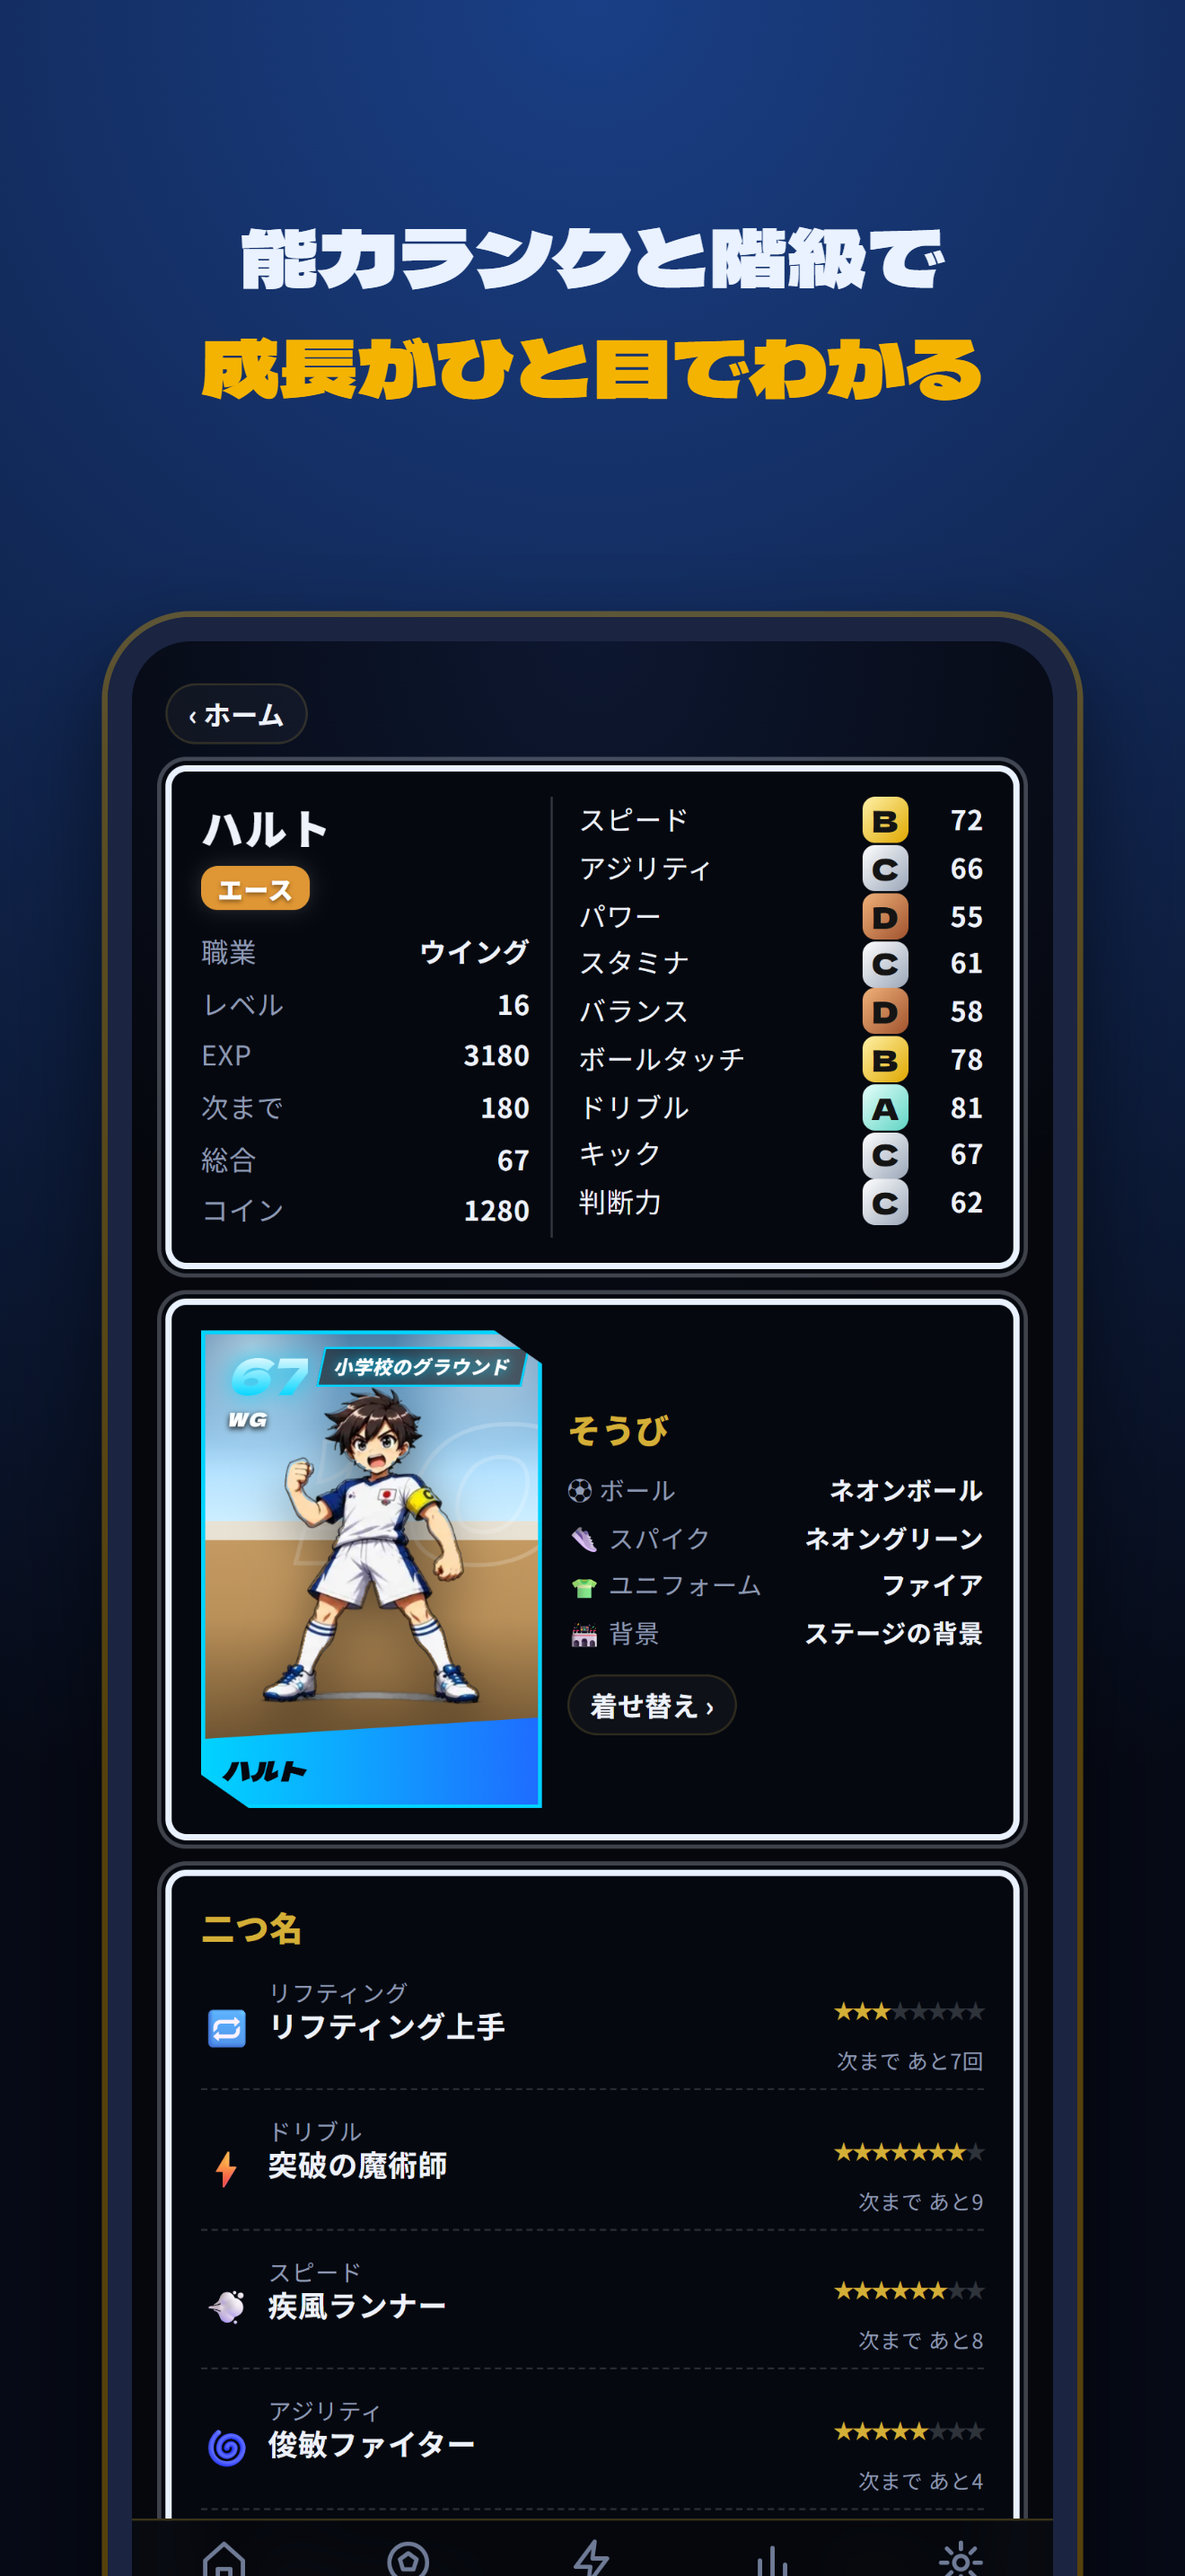
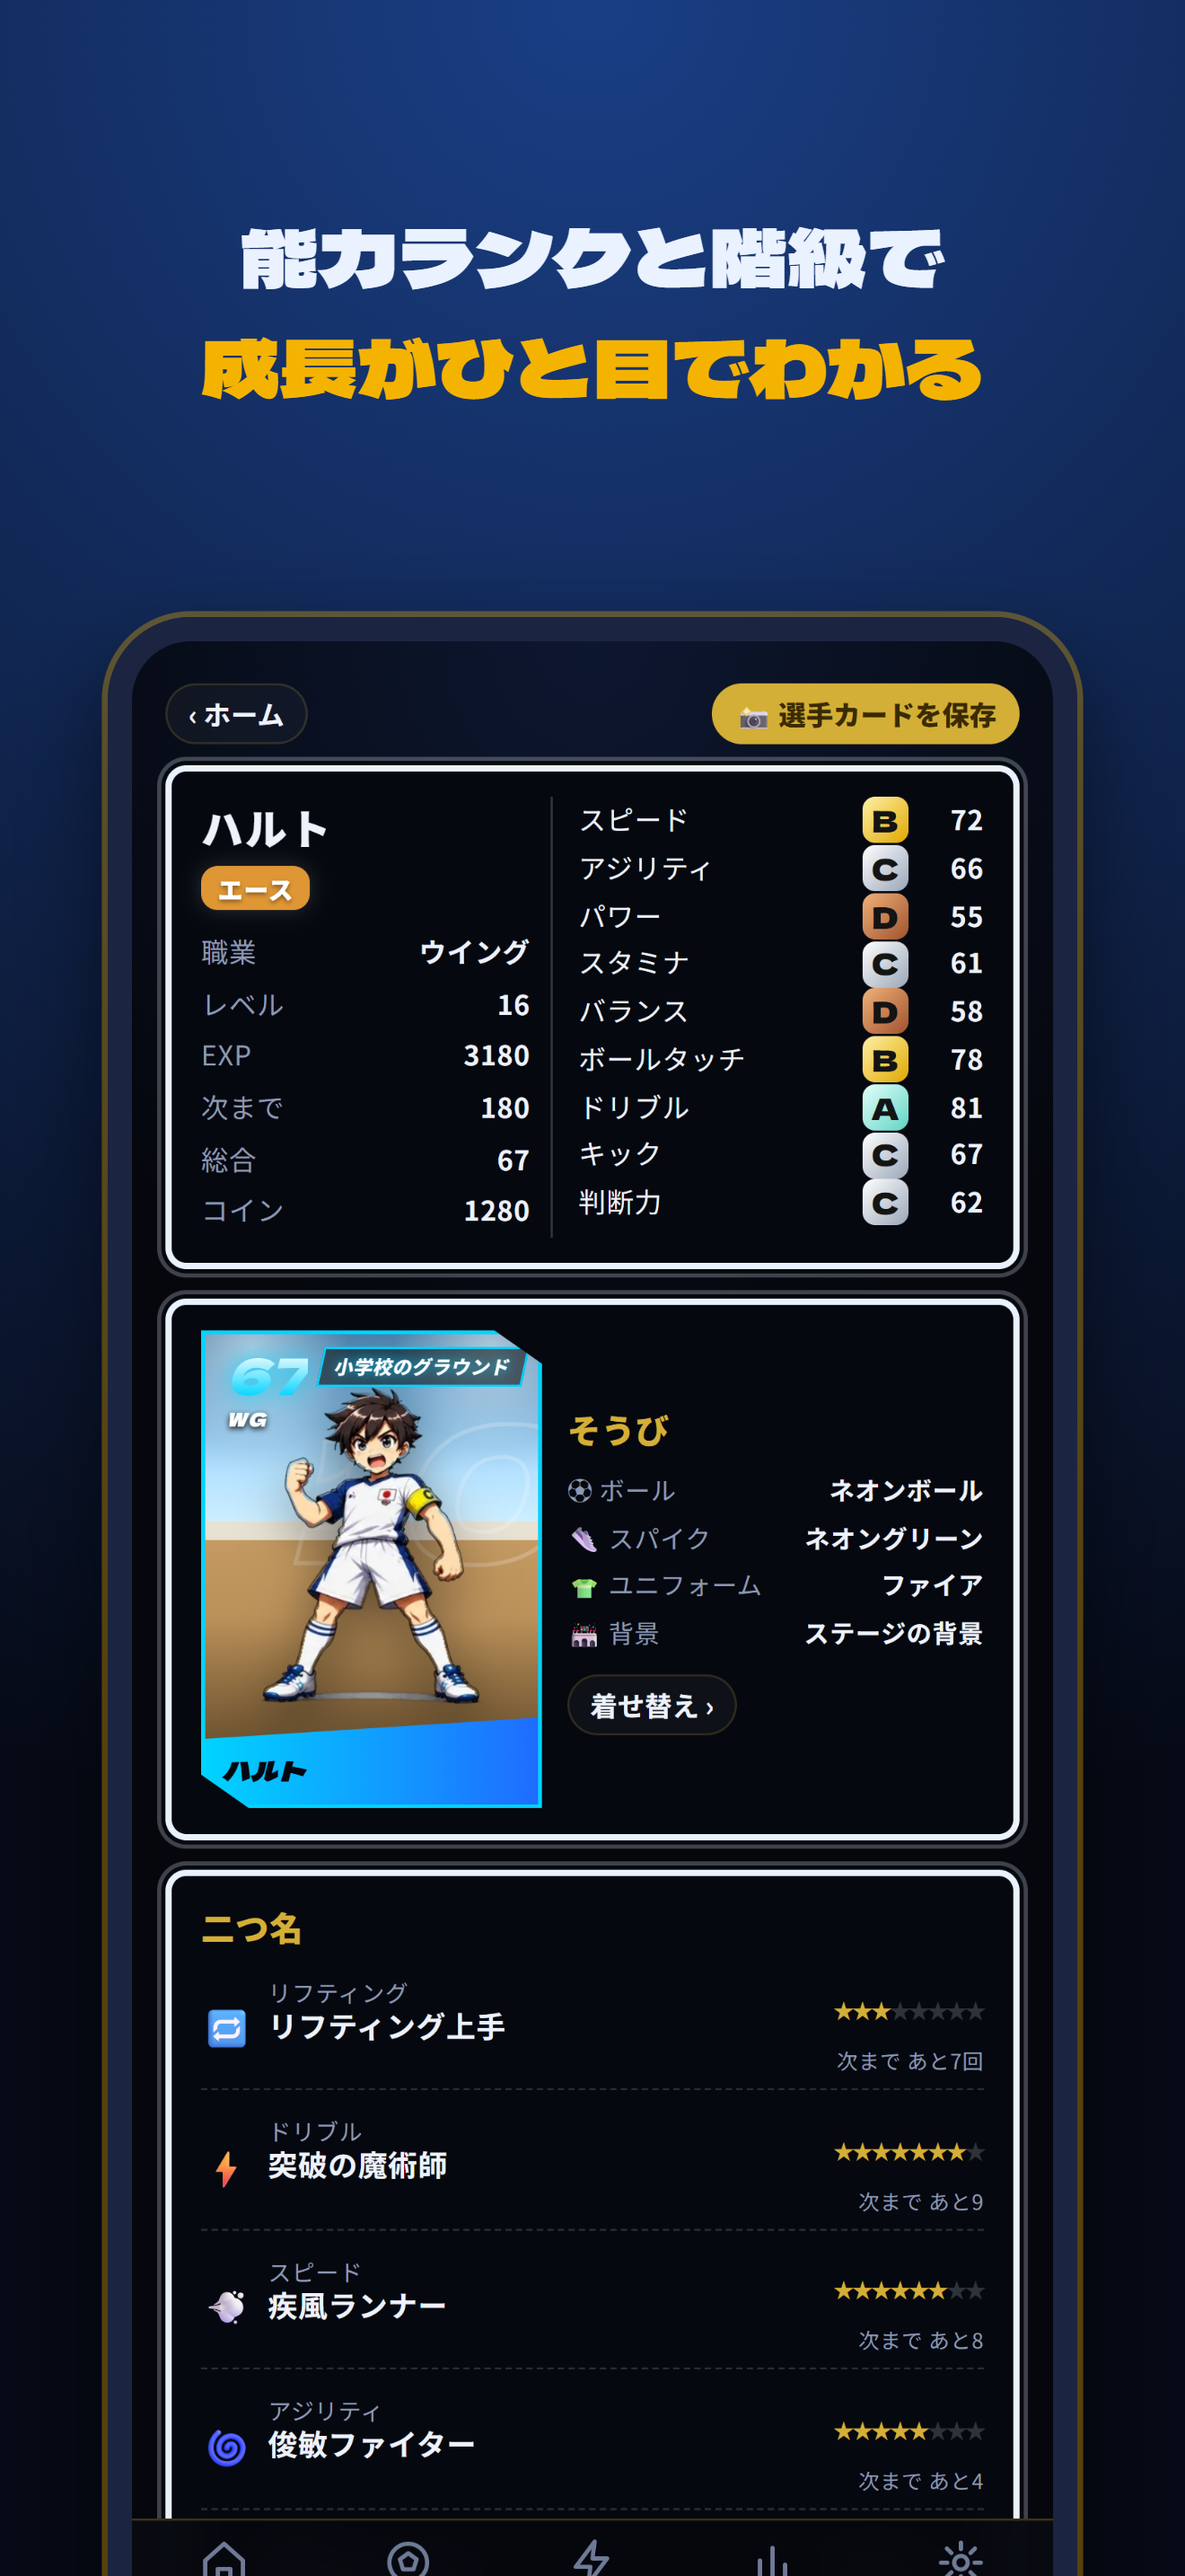
v0.16.0：はじめての練習をわかりやすく・ボーナス
- まだ練習していない人のホームに「はじめての練習をしよう！」（かんたんな練習3つ）
- 最初の1回はボーナス（+100 EXP・🪙50・🎁宝箱）で、すぐにレベルアップ・宝箱・称号を体験できる
- CLAUDE.md に新しい仕組み（演出・タイマー・兄弟・カード画像・ライバル）を追記、ストア画像を撮り直し

Changed region(s): [[0.5902, 0.2483, 0.8697, 0.3103]]

diff --git a/app.js b/app.js
@@ -400,7 +400,7 @@ function dressed(s,over){
 }
 
 /* ===== アプリ内ダイアログ（ブラウザ標準の alert/confirm は使わない） ===== */
-const APP_VERSION='0.15.0';
+const APP_VERSION='0.16.0';
 function closeOv(){document.getElementById('ov').classList.remove('show')}
 function dialog({icon='',title,msg='',ok='OK',cancel=null,danger=false}){
   return new Promise(res=>{
@@ -1268,6 +1268,14 @@ function stageScene(s){
     <div class="scene-foot"><b>Lv.${L}</b> ${rankTag(L)}<span>${nx?`次は「${nx.name}」Lv.${nx.lv}`:'最高の舞台！'}</span></div>
   </div>`;
 }
+/* はじめての人向け：最初の練習へ案内する（かんたんな練習を3つ） */
+function firstCard(){
+  if(S.logs.some(l=>!l.rest))return '';
+  const picks=['sole_roll','lift','dash'].map(menuOf).filter(Boolean);
+  return `<div class="card firstcard"><h3>🎯 はじめての練習をしよう！</h3>
+    <p class="sub" style="margin:6px 0 10px">5分だけでもOK。最初の練習でボーナス（+100 EXP・🪙50・🎁宝箱）がもらえるよ！</p>
+    <div class="firstpicks">${picks.map(m=>`<button onclick="draft={menu:'${m.id}',min:10,rec:''};go('practice')"><div class="mthumb">${diag(m.d)}</div><b>${m.name}</b></button>`).join('')}</div></div>`;
+}
 function homeView(){
   recoverHP();dailyCheck();
   const {L,r,n}=lv(S.xp);
@@ -1286,6 +1294,7 @@ function homeView(){
     <div class="hprow"><b>HP</b><div class="hpbar"><i style="width:${hp}%;background:${hp<25?'#ff4d4d':hp<50?'#ffb020':'#3ee08f'}"></i></div><span>${hp}/100</span></div>
   </div>
   <div class="wrap">
+    ${firstCard()}
     <button class="btn gold" onclick="go('practice')" style="margin:4px 0 10px">練習を記録する</button>
     <div class="row" style="margin:0 0 16px"><button class="btn ghost" onclick="go('status')" style="flex:1">つよさ</button><button class="btn ghost" onclick="go('shop')" style="flex:1">ショップ</button></div>
     ${buddyCard()}
@@ -1422,6 +1431,7 @@ function doPractice(){
   const m=menuOf(draft.menu);
   let xp=calcXP(), notes=[], coin=draft.min, pb=false;
   const rec=draft.rec===''?null:Number(draft.rec);
+  const first=!S.logs.some(l=>!l.rest);
   if(rec!=null&&(isNaN(rec)||rec<0||(m.max&&rec>m.max))){dialog({icon:'🔢',title:'記録の数字を確かめてね',msg:m.max?`0〜${m.max}の数字で入力してね。`:'0以上の数字で入力してね。'});return}
   if(rec!=null){
     const b=S.best[m.id], better=b==null||(m.lower?rec<b:rec>b);
@@ -1436,6 +1446,7 @@ function doPractice(){
   if(jobMult(J,Object.keys(m.gain)[0])>1) notes.push(`⚽ ${J.name}の職業ボーナス`);
   const mb=mastery(S,m.id).i;
   S.logs.unshift({date:today(),menu:m.id,min:draft.min,rec,xp,pb});
+  if(first){xp+=100;coin+=50;S.bonusChest=(S.bonusChest||0)+1;notes.unshift('🎉 はじめての練習ボーナス！ +100 EXP・🪙50・🎁宝箱')}
   {const ma=mastery(S,m.id);if(ma.i>mb)notes.push(`🏅 「${m.name}」の熟練度が <b>${ma.m.name}</b> に上がった！`)}
   S.hp=Math.max(0,S.hp-draft.min/2);
   const q=checkQuests(); xp+=q.xp; coin+=q.coin; notes.push(...q.notes);

diff --git a/app.css b/app.css
@@ -511,3 +511,10 @@ li .skchip{display:inline-flex;min-height:0;padding:1px 8px;font-size:13px}
 .prneed{display:grid;grid-template-columns:auto 1fr;gap:8px;align-items:center;margin-top:8px;font-size:12px;font-weight:800}
 .prneed i{display:block;height:8px;border-radius:6px;background:rgba(255,255,255,.08);overflow:hidden}
 .prneed i b{display:block;height:100%;background:linear-gradient(90deg,#ff8a5c,#ffd54a);border-radius:6px}
+
+/* はじめての練習（v0.16.0） */
+.firstcard{border:2px solid var(--gold);background:linear-gradient(160deg,rgba(245,179,1,.16),rgba(255,255,255,.02));animation:pop .5s}
+.firstpicks{display:grid;grid-template-columns:repeat(3,1fr);gap:8px}
+.firstpicks button{display:flex;flex-direction:column;align-items:center;gap:4px;background:var(--chip);border:1px solid var(--line);border-radius:12px;padding:6px;color:var(--ink);font:inherit;font-size:12px;cursor:pointer}
+.firstpicks .mthumb{width:100%;aspect-ratio:4/3;overflow:hidden;border-radius:8px}
+.firstpicks .mthumb svg{width:100%;height:100%}

diff --git a/sw.js b/sw.js
@@ -1,6 +1,6 @@
 /* オフラインでも起動できるようにする Service Worker
    アプリを更新したら VERSION を上げると、古いキャッシュが入れかわる */
-const VERSION = 'rq-0.15.0';
+const VERSION = 'rq-0.16.0';
 const CORE = ['./', './index.html', './app.css', './app.js', './manifest.webmanifest',
   './icons/icon-192.png', './icons/icon-512.png', './icons/apple-touch-icon.png', './fonts/fonts.css'];
 

diff --git a/CLAUDE.md b/CLAUDE.md
@@ -56,6 +56,10 @@
 - 個人技スキル `SKILLS`（金・技・心がまえの札。`name` は保存のキーなので変えない）／つよさ画面 `statusView()`
 - 練習場所8段階 `STAGES`（家の庭→近所の公園→大きな公園→河川敷→小学校のグラウンド→フットサルコート→天然芝のピッチ→満員のスタジアム）。練習画面の上 `stageScene()`、絵は `img/stages/stage-N.webp`
 - 部屋（マイページ）8段階 `ROOMS`・`roomView()`：階級と同時に引っこし、広く豪華に。飾り（トロフィー・メダル・ボール・くつ・ポスター）が増える。絵は `img/room/room-N.webp`
+- 演出：全画面カットイン `cutin()`（昇格）／宝箱はタップで開く `openChest()`／練習タイマー `timerView()`・`S.timer`
+- 選手の切りかえ（兄弟）`profMeta()`・`switchProfile()`：選手ごとに保存キーが別（1人目は `renshu-quest-v1` のまま）
+- 選手カード画像 `makeCardImage()`・`saveCardImage()`（保護者確認つき・端末内で作成）
+- 練習場所のライバルとストーリー `PLACE_RIVALS`・`placeCheck()`／はじめての練習ボーナス `firstCard()`
 - クエスト `QPOOL`／ライバル `BOSSES`／宝箱 `openChest()`／月間ロード `roadReward()`／お守り・ふりかえり `dailyCheck()`
 - ショップ `BALLS` `BOOTS` `KITS` `BGS`（`price:-1` は非売品）／相棒ボルト `buddyLines()`・`BOLT`
 - イラストのキャラ `AVATARS`・`avatarView()`
